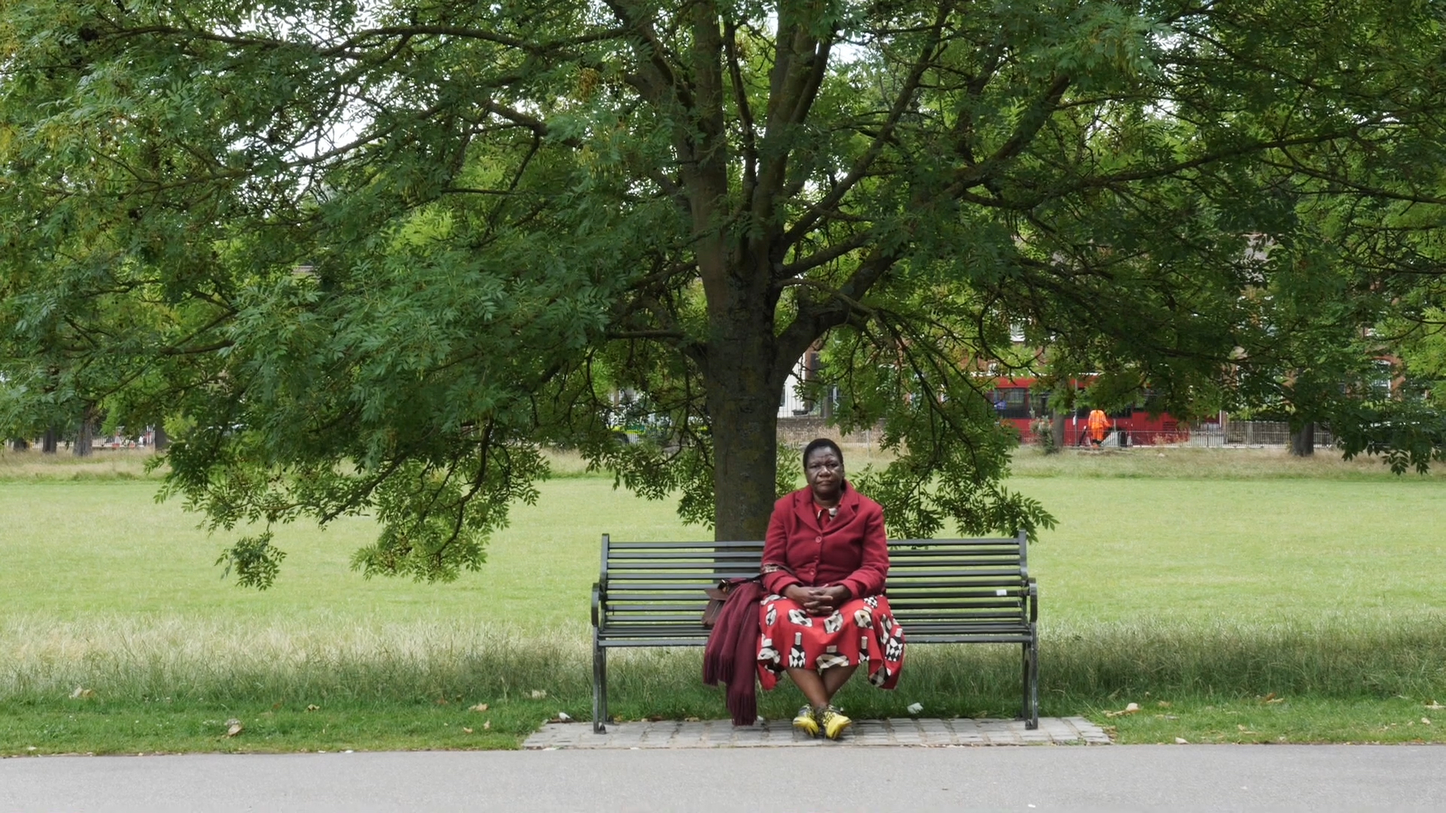
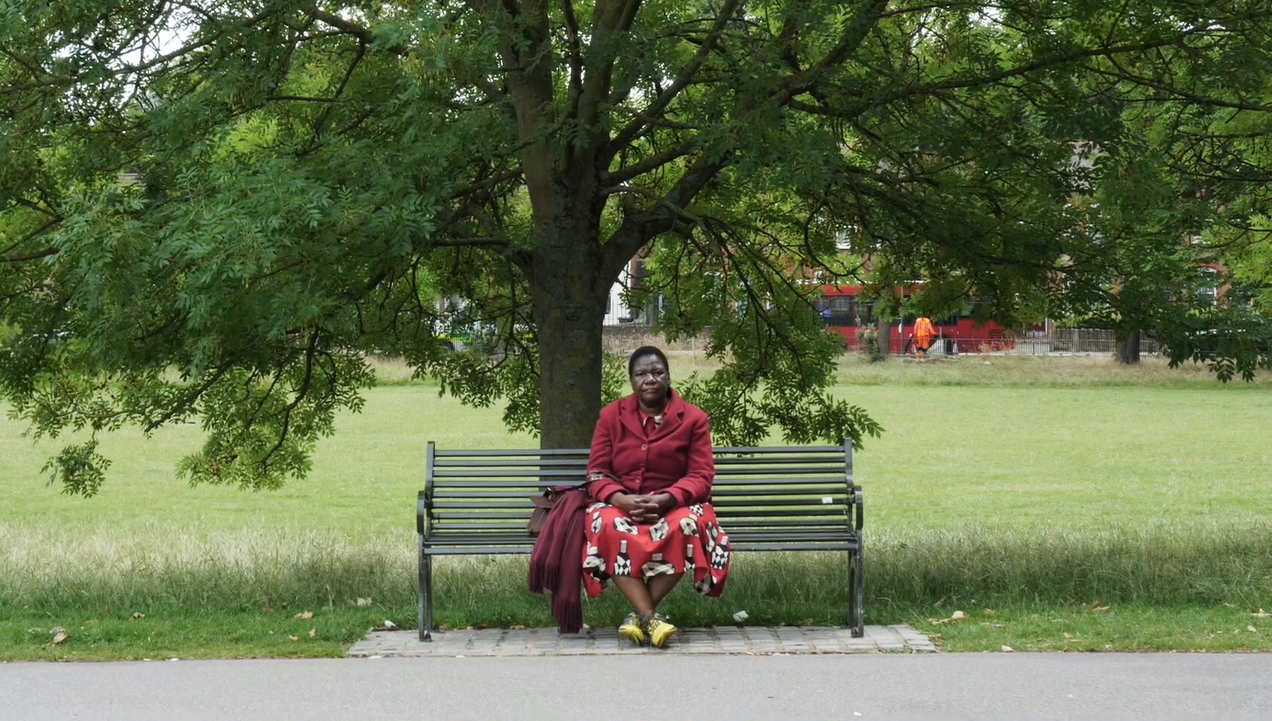
centered bench background

diff --git a/index.html b/index.html
@@ -84,13 +84,12 @@ div.section div.content {
 }
 
 div.section#home div.header {
-    /* background: white url('bench.jpg') no-repeat center; */
-    background: white url('output.gif') no-repeat center;
+    background: white url('bench.jpg') no-repeat center; 
     background-size: 100% auto;
 }
 
-div.section#home div.content h3 {
-    font-family: Roboto, sans-serif;
+div.section#home div.header h2 {
+    top: 40%;
 }
 
 div.section#how-to-watch div.header {
